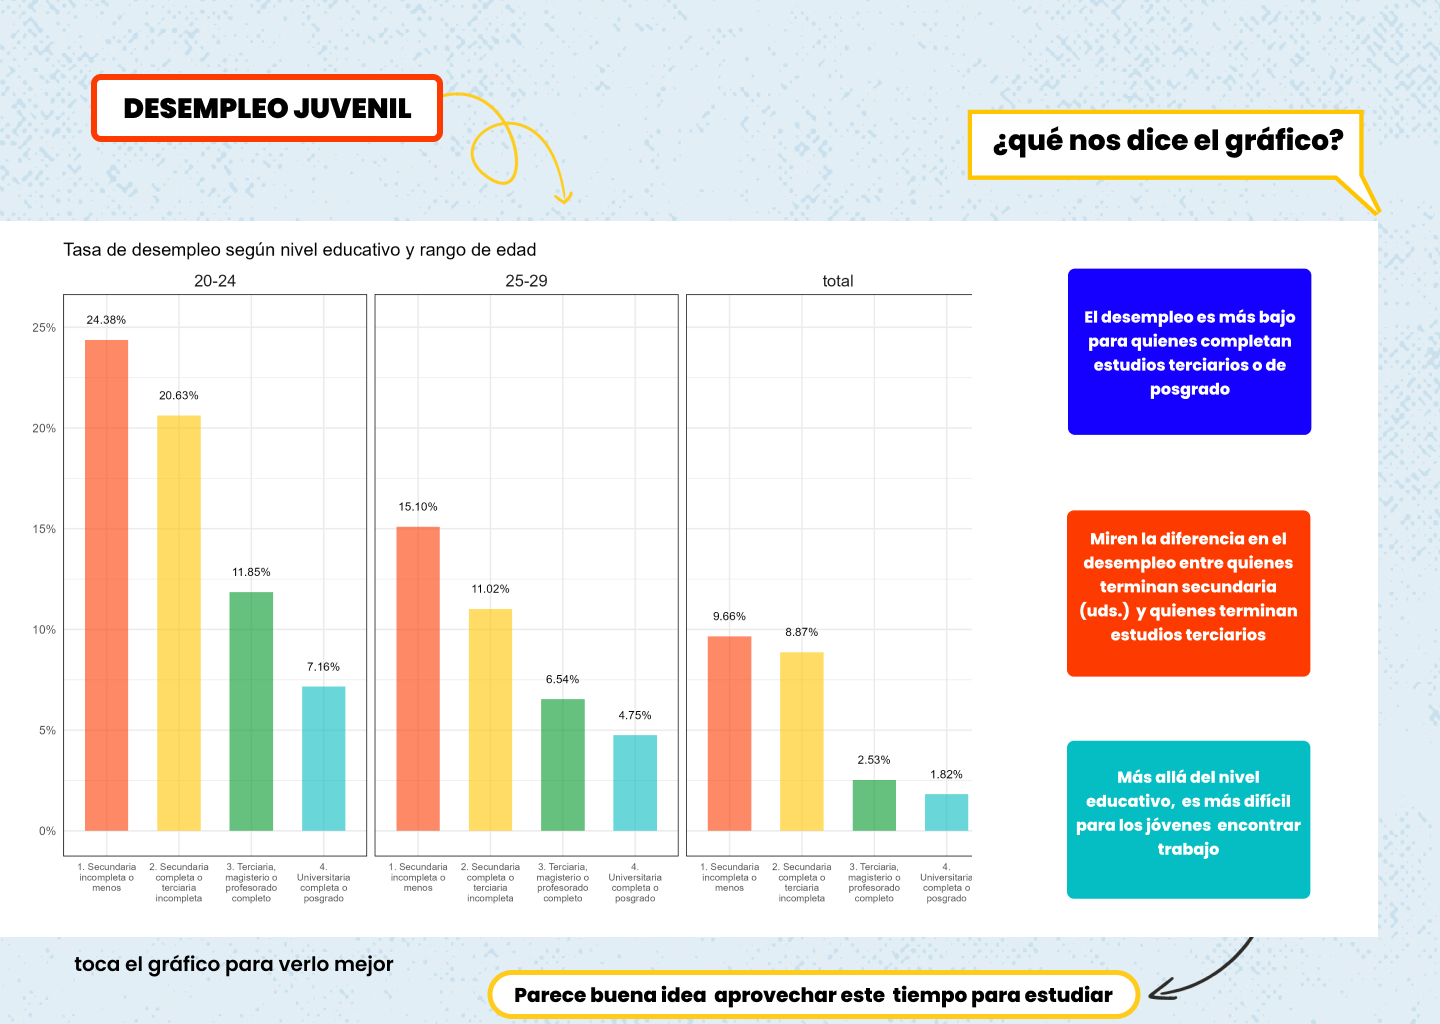
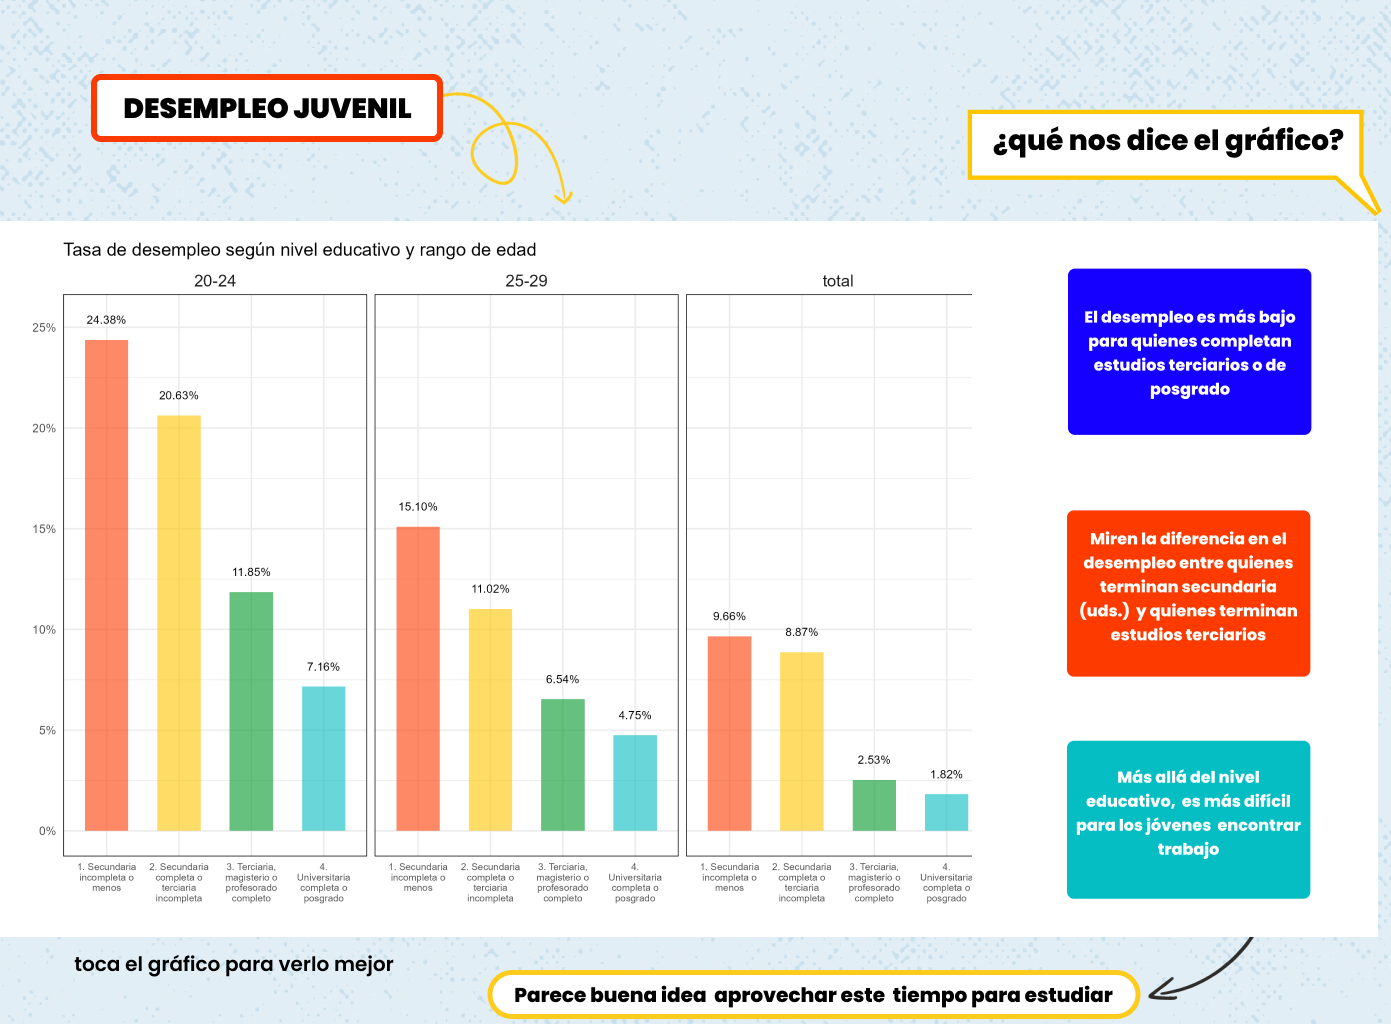
arreglo gráficas

diff --git a/css/index.css b/css/index.css
@@ -344,26 +344,26 @@ header{
 }
 .divCarrusel{
     width: 100vw;
-    height: 95vh;
+    height: 100vh;
     display: flex;
     justify-content: center;
 }
 .imgCarruselUnoGraficas{
-    width: 60vw;
+    width: 80vw;
     height: auto;
-    margin-top: 3%;
+    margin-top: 4%;
     display: block;
 }
 .imgCarruselUnoIngresos{
-    width: 60vw;
+    width: 80vw;
     height: auto;
-    margin-top: 3%;
+    margin-top: 4%;
     display: block;
 }
 .imgCarruselUnoOcupaciones{
-    width: 60vw;
+    width: 80vw;
     height: auto;
-    margin-top: 3%;
+    margin-top: 4%;
     display: block;
 }
 #buttonCarousel{
